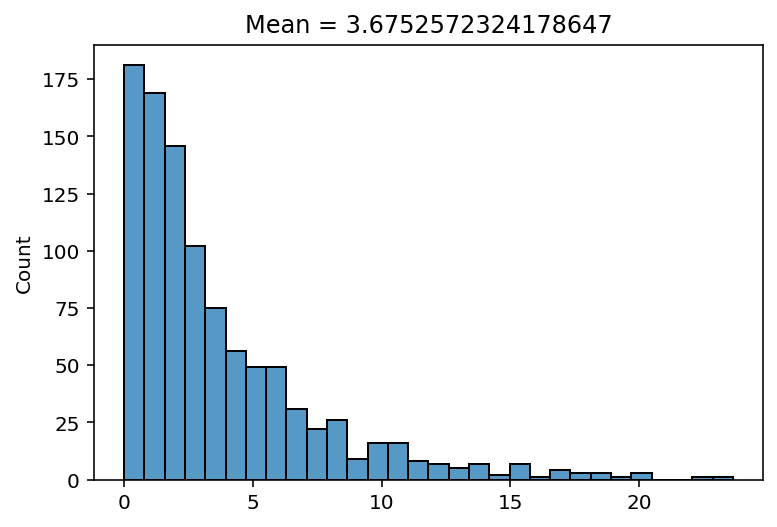
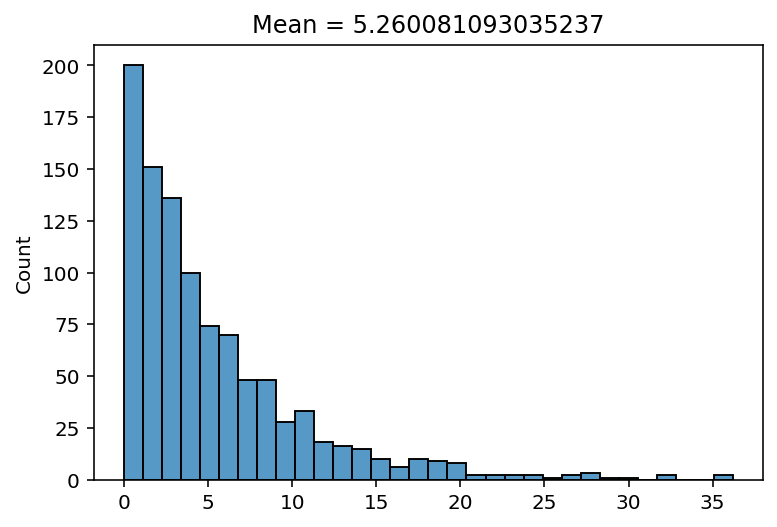
Minor

diff --git a/experiments/sched-sim.html b/experiments/sched-sim.html
@@ -149,24 +149,23 @@ code span.wa { color: #60a0b0; font-weight: bold; font-style: italic; } /* Warni
 <span id="cb1-27"><a href="#cb1-27" aria-hidden="true" tabindex="-1"></a>    <span class="cf">if</span>(logs): <span class="bu">print</span>(iats[i], wt, st, tis, ct)</span>
 <span id="cb1-28"><a href="#cb1-28" aria-hidden="true" tabindex="-1"></a>  <span class="cf">return</span>(np.array(wts))</span>
 <span id="cb1-29"><a href="#cb1-29" aria-hidden="true" tabindex="-1"></a></span>
-<span id="cb1-30"><a href="#cb1-30" aria-hidden="true" tabindex="-1"></a><span class="co">### Lognormal mean and sd</span></span>
+<span id="cb1-30"><a href="#cb1-30" aria-hidden="true" tabindex="-1"></a><span class="co">### Lognormal mean and sd / see: https://en.wikipedia.org/wiki/Log-normal_distribution</span></span>
 <span id="cb1-31"><a href="#cb1-31" aria-hidden="true" tabindex="-1"></a></span>
 <span id="cb1-32"><a href="#cb1-32" aria-hidden="true" tabindex="-1"></a><span class="kw">def</span> logn_mean_sd(m, s):</span>
 <span id="cb1-33"><a href="#cb1-33" aria-hidden="true" tabindex="-1"></a>  sigma <span class="op">=</span> np.sqrt(np.log(<span class="dv">1</span> <span class="op">+</span> (s<span class="op">/</span>m)<span class="op">**</span><span class="dv">2</span>))</span>
 <span id="cb1-34"><a href="#cb1-34" aria-hidden="true" tabindex="-1"></a>  mu <span class="op">=</span> np.log(m<span class="op">**</span><span class="dv">2</span> <span class="op">/</span> np.sqrt(m<span class="op">**</span><span class="dv">2</span> <span class="op">+</span> s<span class="op">**</span><span class="dv">2</span>))</span>
 <span id="cb1-35"><a href="#cb1-35" aria-hidden="true" tabindex="-1"></a>  <span class="cf">return</span>([mu, sigma])</span>
 <span id="cb1-36"><a href="#cb1-36" aria-hidden="true" tabindex="-1"></a></span>
-<span id="cb1-37"><a href="#cb1-37" aria-hidden="true" tabindex="-1"></a></span>
-<span id="cb1-38"><a href="#cb1-38" aria-hidden="true" tabindex="-1"></a><span class="co">## Variables</span></span>
-<span id="cb1-39"><a href="#cb1-39" aria-hidden="true" tabindex="-1"></a></span>
-<span id="cb1-40"><a href="#cb1-40" aria-hidden="true" tabindex="-1"></a>cts <span class="op">=</span> np.array([<span class="dv">0</span>, <span class="dv">1</span>]) <span class="co"># client types</span></span>
-<span id="cb1-41"><a href="#cb1-41" aria-hidden="true" tabindex="-1"></a>pct <span class="op">=</span> np.array([<span class="dv">1</span>, <span class="dv">0</span>]) <span class="co"># distribution of client types - normal / emergency</span></span>
-<span id="cb1-42"><a href="#cb1-42" aria-hidden="true" tabindex="-1"></a><span class="co"># sts = np.array([14, 14, 14, 15, 16]) # service times</span></span>
-<span id="cb1-43"><a href="#cb1-43" aria-hidden="true" tabindex="-1"></a><span class="co"># sts = np.random.poisson(lam=14, size=1000)</span></span>
-<span id="cb1-44"><a href="#cb1-44" aria-hidden="true" tabindex="-1"></a>sts <span class="op">=</span> np.random.lognormal(mean <span class="op">=</span> logn_mean_sd(<span class="dv">14</span>, <span class="dv">5</span>)[<span class="dv">0</span>], sigma<span class="op">=</span>logn_mean_sd(<span class="dv">14</span>, <span class="dv">5</span>)[<span class="dv">1</span>], size<span class="op">=</span><span class="dv">1000</span>)</span>
-<span id="cb1-45"><a href="#cb1-45" aria-hidden="true" tabindex="-1"></a>ns <span class="op">=</span> <span class="fl">0.0</span></span>
-<span id="cb1-46"><a href="#cb1-46" aria-hidden="true" tabindex="-1"></a>nSims <span class="op">=</span> <span class="dv">1000</span> <span class="co"># number of simulations</span></span>
-<span id="cb1-47"><a href="#cb1-47" aria-hidden="true" tabindex="-1"></a>logs <span class="op">=</span> <span class="va">False</span></span></code><button title="Copy to Clipboard" class="code-copy-button"><i class="bi"></i></button></pre></div>
+<span id="cb1-37"><a href="#cb1-37" aria-hidden="true" tabindex="-1"></a><span class="co">## Variables</span></span>
+<span id="cb1-38"><a href="#cb1-38" aria-hidden="true" tabindex="-1"></a></span>
+<span id="cb1-39"><a href="#cb1-39" aria-hidden="true" tabindex="-1"></a>cts <span class="op">=</span> np.array([<span class="dv">0</span>, <span class="dv">1</span>]) <span class="co"># client types</span></span>
+<span id="cb1-40"><a href="#cb1-40" aria-hidden="true" tabindex="-1"></a>pct <span class="op">=</span> np.array([<span class="dv">1</span>, <span class="dv">0</span>]) <span class="co"># distribution of client types - normal / emergency</span></span>
+<span id="cb1-41"><a href="#cb1-41" aria-hidden="true" tabindex="-1"></a><span class="co"># sts = np.array([14, 14, 14, 15, 16]) # service times</span></span>
+<span id="cb1-42"><a href="#cb1-42" aria-hidden="true" tabindex="-1"></a><span class="co"># sts = np.random.poisson(lam=14, size=1000)</span></span>
+<span id="cb1-43"><a href="#cb1-43" aria-hidden="true" tabindex="-1"></a>sts <span class="op">=</span> np.random.lognormal(mean <span class="op">=</span> logn_mean_sd(<span class="dv">14</span>, <span class="dv">5</span>)[<span class="dv">0</span>], sigma<span class="op">=</span>logn_mean_sd(<span class="dv">14</span>, <span class="dv">5</span>)[<span class="dv">1</span>], size<span class="op">=</span><span class="dv">1000</span>)</span>
+<span id="cb1-44"><a href="#cb1-44" aria-hidden="true" tabindex="-1"></a>ns <span class="op">=</span> <span class="fl">0.0</span></span>
+<span id="cb1-45"><a href="#cb1-45" aria-hidden="true" tabindex="-1"></a>nSims <span class="op">=</span> <span class="dv">1000</span> <span class="co"># number of simulations</span></span>
+<span id="cb1-46"><a href="#cb1-46" aria-hidden="true" tabindex="-1"></a>logs <span class="op">=</span> <span class="va">False</span></span></code><button title="Copy to Clipboard" class="code-copy-button"><i class="bi"></i></button></pre></div>
 </div>
 </section>
 <section id="run-simulation-1" class="level2">
@@ -192,7 +191,7 @@ code span.wa { color: #60a0b0; font-weight: bold; font-style: italic; } /* Warni
 <div class="sourceCode cell-code" id="cb3"><pre class="sourceCode python code-with-copy"><code class="sourceCode python"><span id="cb3-1"><a href="#cb3-1" aria-hidden="true" tabindex="-1"></a>fig <span class="op">=</span> sns.histplot(simRes)</span>
 <span id="cb3-2"><a href="#cb3-2" aria-hidden="true" tabindex="-1"></a>fig.<span class="bu">set</span>(title<span class="op">=</span><span class="ss">f"Mean = </span><span class="sc">{</span>mwt<span class="sc">}</span><span class="ss">"</span>)</span></code><button title="Copy to Clipboard" class="code-copy-button"><i class="bi"></i></button></pre></div>
 <div class="cell-output cell-output-display" data-execution_count="3">
-<pre><code>[Text(0.5, 1.0, 'Mean = 3.6752572324178647')]</code></pre>
+<pre><code>[Text(0.5, 1.0, 'Mean = 5.260081093035237')]</code></pre>
 </div>
 <div class="cell-output cell-output-display">
 <p><img src="sched-sim_files/figure-html/cell-4-output-2.png" class="img-fluid"></p>
@@ -222,7 +221,7 @@ code span.wa { color: #60a0b0; font-weight: bold; font-style: italic; } /* Warni
 <div class="sourceCode cell-code" id="cb6"><pre class="sourceCode python code-with-copy"><code class="sourceCode python"><span id="cb6-1"><a href="#cb6-1" aria-hidden="true" tabindex="-1"></a>fig <span class="op">=</span> sns.histplot(simRes)</span>
 <span id="cb6-2"><a href="#cb6-2" aria-hidden="true" tabindex="-1"></a>fig.<span class="bu">set</span>(title<span class="op">=</span><span class="ss">f"Mean = </span><span class="sc">{</span>mwt<span class="sc">}</span><span class="ss">"</span>)</span></code><button title="Copy to Clipboard" class="code-copy-button"><i class="bi"></i></button></pre></div>
 <div class="cell-output cell-output-display" data-execution_count="5">
-<pre><code>[Text(0.5, 1.0, 'Mean = 9.711100019452996')]</code></pre>
+<pre><code>[Text(0.5, 1.0, 'Mean = 11.46664231641217')]</code></pre>
 </div>
 <div class="cell-output cell-output-display">
 <p><img src="sched-sim_files/figure-html/cell-6-output-2.png" class="img-fluid"></p>
@@ -252,7 +251,7 @@ code span.wa { color: #60a0b0; font-weight: bold; font-style: italic; } /* Warni
 <div class="sourceCode cell-code" id="cb9"><pre class="sourceCode python code-with-copy"><code class="sourceCode python"><span id="cb9-1"><a href="#cb9-1" aria-hidden="true" tabindex="-1"></a>fig <span class="op">=</span> sns.histplot(simRes)</span>
 <span id="cb9-2"><a href="#cb9-2" aria-hidden="true" tabindex="-1"></a>fig.<span class="bu">set</span>(title<span class="op">=</span><span class="ss">f"Mean = </span><span class="sc">{</span>mwt<span class="sc">}</span><span class="ss">"</span>)</span></code><button title="Copy to Clipboard" class="code-copy-button"><i class="bi"></i></button></pre></div>
 <div class="cell-output cell-output-display" data-execution_count="7">
-<pre><code>[Text(0.5, 1.0, 'Mean = 22.2386215426208')]</code></pre>
+<pre><code>[Text(0.5, 1.0, 'Mean = 24.261288734803717')]</code></pre>
 </div>
 <div class="cell-output cell-output-display">
 <p><img src="sched-sim_files/figure-html/cell-8-output-2.png" class="img-fluid"></p>
